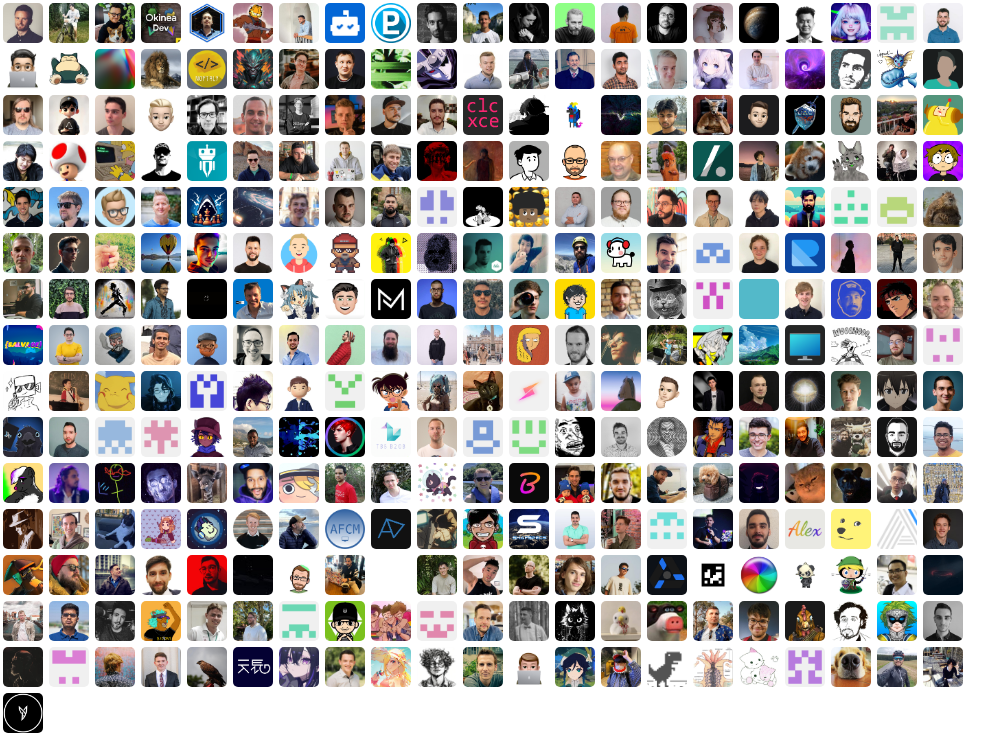
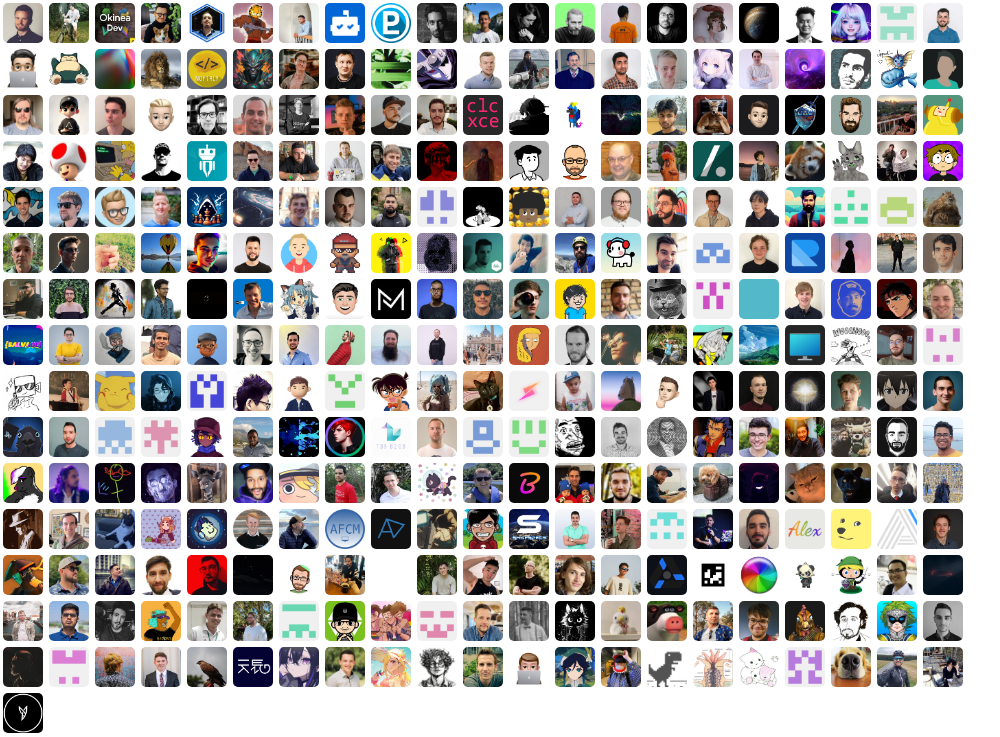
release: 🔖 v1.1.0

Changed region(s): [[0.093, 0.0, 0.186, 0.0624], [0.031, 0.749, 0.093, 0.8114]]

diff --git a/CHANGELOG.md b/CHANGELOG.md
@@ -3,10 +3,22 @@
  All notable changes to this project will be documented in this file. Dates are displayed in UTC.
 
  
+#### [v1.1.0](https://github.com/lucodear/lucodear-icons/compare/v1.0.0...v1.1.0) 
+
+> July 31, 2024 
+
+- feat: ✨ design system folder icon [`50fd3b19`](https://github.com/lucodear/lucodear-icons/commit/50fd3b19)
+- feat: ✨ single-action icon, cloudflare/wrangler + react [`e915b942`](https://github.com/lucodear/lucodear-icons/commit/e915b942)
+- Add license field to package.json [`#2495`](https://github.com/lucodear/lucodear-icons/pull/2495)
+- ci: 🏷 Add labels for PRs automatically [`#2490`](https://github.com/lucodear/lucodear-icons/pull/2490)
+- feat: ✨ new rust icon [`#2489`](https://github.com/lucodear/lucodear-icons/pull/2489)
+- Improve icon preview workflow [`#2485`](https://github.com/lucodear/lucodear-icons/pull/2485)
+ 
 #### [v1.0.0](https://github.com/lucodear/lucodear-icons/compare/v0.65.0...v1.0.0) 
 
 > July 28, 2024 
 
+- release: 🔖 v1.0.0 [`3ab8cffe`](https://github.com/lucodear/lucodear-icons/commit/3ab8cffe)
 - feat: ✨ cleanup and simplify @lucodear architecture [`6379f668`](https://github.com/lucodear/lucodear-icons/commit/6379f668)
 - Added labels for PR's [`#2487`](https://github.com/lucodear/lucodear-icons/pull/2487)
 - Changed the method of searching for a previous message to search for a hidden comment [`#2485`](https://github.com/lucodear/lucodear-icons/pull/2485)
